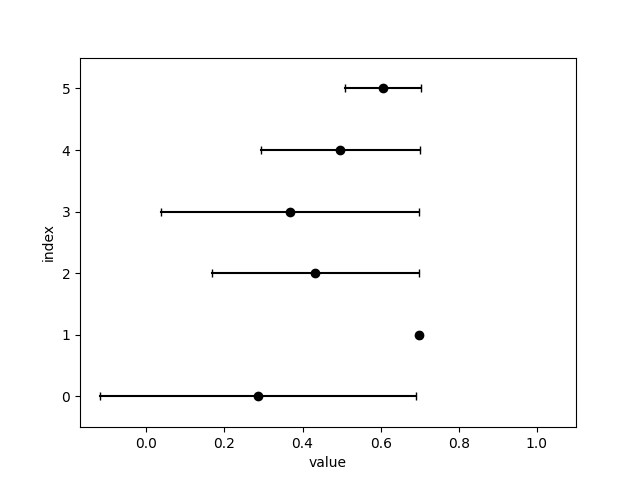
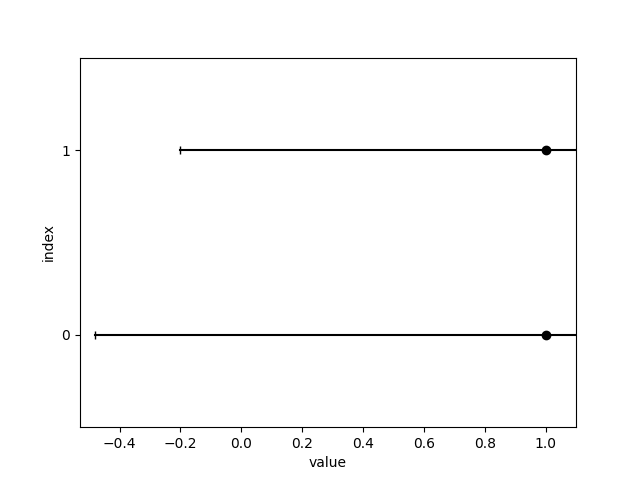
2つまで

diff --git a/main.py b/main.py
@@ -1,61 +1,60 @@
-from config import k,n,success_probability
+from config import k,success_probability
 import scipy.stats as stats
 import function  as f
 import matplotlib.pyplot as plt
 from tqdm import tqdm
+import numpy as np
 def main():
-    sum_result = [0 for i in range(k)]    
-    each_attempt = [1 for i in range(k)]
-    cumulative_result = 0
     pulls = f.pull(k,success_probability)
+    sum_result = [pulls[i].rvs(1)[0] for i in range(k)]
+    each_attempt = [1 for i in range(k)]
+    
+    count = 1
+    LCBi = [0 for i in range(k)]
+    UCBi = [0 for i in range(k)]
+    others =[50]
+
+
+    fig, ax = plt.subplots()
+    lines = []
 
     for i in range(k):
-        result = pulls[i].rvs(1)[0]
-        sum_result[i] += result
-        cumulative_result += result
+        line, = ax.plot([], [], marker="|")
+        lines.append(line)
+    ax.set_xlim(0, 1)
+    ax.set_ylim(-1, k)
 
-    LCBi = f.LCB(each_attempt,sum_result)
-    UCBi = f.UCB(each_attempt,sum_result)
+    plt.ion()
+    fig.show()
+    while  max(LCBi) <= max(others):
+        print(count,UCBi,others,max(others) == max(UCBi))
+        for i in range(k):
+            result = pulls[i].rvs(1)[0]
+            each_attempt[i] += 1
+            sum_result[i] += result
+            LCBi = f.LCB(each_attempt,sum_result)
+            UCBi = f.UCB(each_attempt,sum_result)
+            idx = np.argmax(LCBi)
+            count += 1
+            for j in range(k):
+                lines[j].set_data([UCBi[j],LCBi[j]], [j, j]) 
+            others = UCBi.copy()
+            others[idx] = 0
+            plt.pause(0.01)
 
-    max_index = f.max_index(k,UCBi)
-    for i in tqdm(range(k,n)):
-        result = pulls[max_index].rvs(1)[0]
-        sum_result[max_index] += result
-        cumulative_result += result
-        each_attempt[max_index] += 1
-        max_index = f.max_index(k,UCBi)
-        LCBi = f.LCB(each_attempt,sum_result)
-        UCBi = f.UCB(each_attempt,sum_result)
-        if max(LCBi) > min(UCBi):
-            print("break")
-            break
 
-    print(i)
-    print(f"BestArm: {f.max_index(k,UCBi)}")
-    print(each_attempt)
+            
+    plt.ioff()
+    print(f"best_arm: {np.argmax(UCBi)}",LCBi,UCBi,max(LCBi),max(others))
+        
+
     fig,ax = plt.subplots()
-    ax.set_yticks([i for i in range(k)])
     for i in range(k):
-        ax.plot(
-            [LCBi[i], UCBi[i]],
-            [i, i],
-            marker="|",
-            color="black"
-        )
-
-        ax.plot(
-            sum_result[i]/each_attempt[i],
-            i,
-            marker="o",
-            color="black"
-        )    
-    ax.set_ylim(-0.5, k-0.5)
-    ax.set_xlim(min(LCBi)-0.05, 1.1)
-    ax.set_xlabel("value")
-    ax.set_ylabel("index")
-
-
-    plt.savefig("graph.png")
+        ax.plot([LCBi[i],UCBi[i]],[i,i],marker="|")
+        ax.plot(sum_result[i]/each_attempt[i],i,marker="o",color="black")
+    plt.savefig("LCB_UCB.png")
+    plt.show()
+            
 
 if __name__ == "__main__":
     main()

diff --git a/function.py b/function.py
@@ -1,6 +1,6 @@
 import numpy as np
 import scipy.stats as stats 
-from config import k,n,success_probability,delta
+from config import k,success_probability,delta
 import random
 
 def pull(k,success_probability):
@@ -16,16 +16,5 @@ def LCB(each_attempt,sum_result):#i回目におけるLCBを計算してLCBのリ
 def UCB(each_attempt,sum_result):
     return np.array(sum_result)/np.array(each_attempt) + np.sqrt((1/(2*np.array(each_attempt)))*(np.log(2*2*np.array(each_attempt)**2/(delta))))
 
-def max_index(k,UCB):
-    max_UCB = max(UCB)
-    amount_max = 0
-    max_index = []
-    for i in range(k):
-        if UCB[i] == max_UCB:
-            amount_max +=1
-            max_index.append(i)
-    if amount_max > 1:
-        return max_index[random.randint(0,len(max_index)-1)]
-    else:
-        return max_index[0]
+
 

diff --git a/config.py b/config.py
@@ -1,4 +1,3 @@
-k = 6
-n = 10000000
-success_probability = (0.3,0.7,0.4,0.35,0.47,0.63)
+k = 2
+success_probability = (0.3,0.7)
 delta = 0.05
